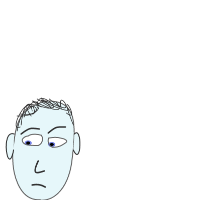
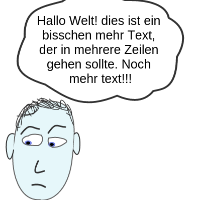
Minor changes ...

diff --git a/spielplatz/bootstrap/index.html b/spielplatz/bootstrap/index.html
@@ -19,7 +19,6 @@
     var processing = new Processing(canvas, function(processing) {
         processing.size(1140, 800);
         processing.background(0,0,0,0);
-        processing.frameRate(20);
         processing.sbShow = false;
 
         var mouseIsPressed = false;
@@ -64,6 +63,7 @@
             rectMode(CENTER);
             textMode(CENTER);
             textAlign(CENTER, BOTTOM);
+            frameRate(20);
 
             ////////////////////////////////////////////////////////
             // ALFONS
@@ -290,8 +290,6 @@
             // SPEECH BUBBLE
             var speechBubble = function(message, x, y, width, height, tSize, bx1, by1, bx2, by2, show) {
 
-                if( !show && !speechBubble.scaleX ) return;
-
                 translate(x,y);
                 strokeWeight(1.3);
                 
@@ -360,14 +358,19 @@
             speechBubble.hideSpeed = 1.2;
             speechBubble.scaleX = 0;
             speechBubble.scaleY = 0;
+
+
+            ////////////////////////////////////////////////////////
+            // Website specific
             sbText = "";
             sbX = sbY = sbW = sbH = sbFS = sbX1 = sbY1 = sbX2 = sbY2 = 0;
 
+            var angle = -10;
             var draw = function() {
                 background(255,255,255,0);
                 
                 translate(90, 180);
-                rotate(-10);
+                rotate(angle);
                 //scale(sc);
                 alfons(0,0,200,200, {
                     lookAt: { x: (mouseX-90)/3, y: (mouseY-180)/3 },
@@ -377,9 +380,9 @@
                 console.log(mouseX+", "+mouseY);
 
                 //speechBubble("Hallo Welt! dies ist ein bisschen mehr Text, der in mehrere Zeilen gehen sollte. Noch mehr text!!!", 200, 100, 300, 280, 25, 190, 270, 232, 219, mouseIsPressed);
-                speechBubble(sbText, sbX, sbY, sbW, sbH, sbFS, sbX1, sbY1, sbX2, sbY2, sbShow);
+                if( sbShow || speechBubble.scaleX ) speechBubble(sbText, sbX, sbY, sbW, sbH, sbFS, sbX1, sbY1, sbX2, sbY2, sbShow);
 
-                angle+=0.0;
+                angle+=1.0;
                 sc+=dsc;
                 if( sc > 3 || sc <= 0 ) {
                     dsc = -dsc;

diff --git a/spielplatz/static/userdata/Admin/js/alfons.js b/spielplatz/static/userdata/Admin/js/alfons.js
@@ -9,7 +9,6 @@
 //      
 //
 
-
 var y = 0,
     dy = 5,
     angle = 0,
@@ -19,6 +18,7 @@ var y = 0,
 rectMode(CENTER);
 textMode(CENTER);
 textAlign(CENTER, BOTTOM);
+frameRate(20);
 
 ////////////////////////////////////////////////////////
 // ALFONS
@@ -244,6 +244,7 @@ alfons.hair = function() {
 ////////////////////////////////////////////////////
 // SPEECH BUBBLE
 var speechBubble = function(message, x, y, width, height, tSize, bx1, by1, bx2, by2, show) {
+
     translate(x,y);
     strokeWeight(1.3);
     
@@ -308,8 +309,8 @@ var speechBubble = function(message, x, y, width, height, tSize, bx1, by1, bx2, 
     text(message, x-w/2, y-h/2, w, h);
 };
 
-speechBubble.showSpeed = 0.1;
-speechBubble.hideSpeed = 0.2;
+speechBubble.showSpeed = 0.6;
+speechBubble.hideSpeed = 1.2;
 speechBubble.scaleX = 0;
 speechBubble.scaleY = 0;
 

diff --git a/spielplatz/static/userdata/Admin/js/test1.js b/spielplatz/static/userdata/Admin/js/test1.js
@@ -1,7 +1,19 @@
-var winkel = 15;
+var winkel = 15,
+    //s = loadShape("mr-pink-green.svg"),
+    bild = getImage("creatures/Hopper-Cool");
+
+frameRate(30);
+var mousePressed = function(key) {
+};
+
+cursor(CROSS);
+debug(nf(2.121232412434,3,3));
 
 var draw = function() {
+    
     background(255);
+    //shape(s, 0, 0, 100, 100);
+    
     fill(0, 150, 0, 128);
     stroke(0, 140, 0);
     
@@ -24,9 +36,12 @@ var draw = function() {
     resetMatrix();
 
     translate(200, 200);
-    rotate(-winkel*1.54137);
+    rotate(-winkel*1.54127);
     ellipse(0,0,30,100);
+    translate(-5, -117);
+    rotate(winkel*1.54137);
+    image(bild, -25, -50, 50, 50);
     resetMatrix();
-    
-    winkel++;
+
+    winkel+=2;
 };
